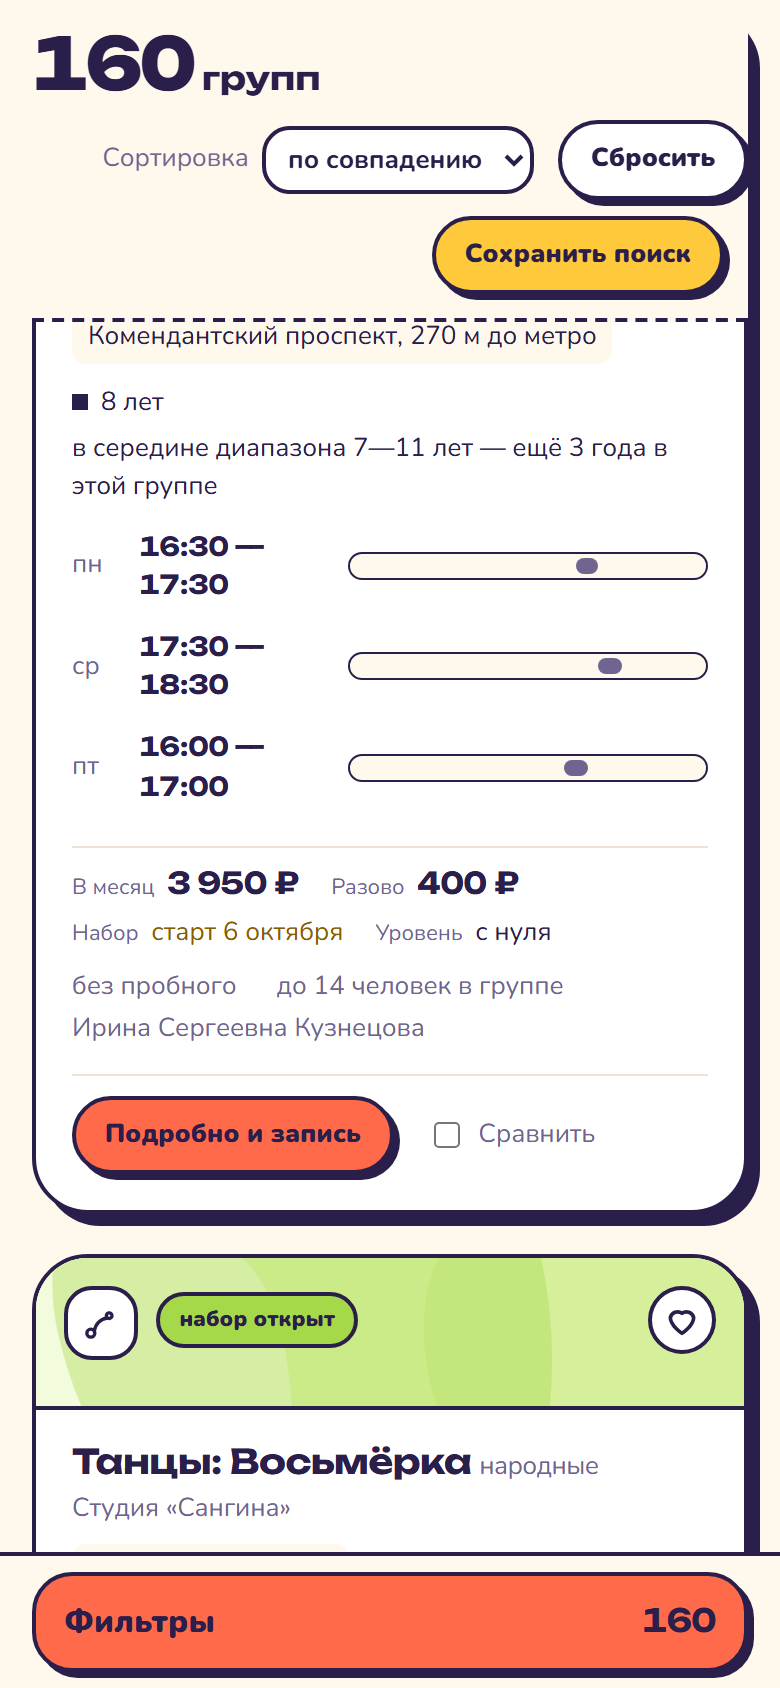
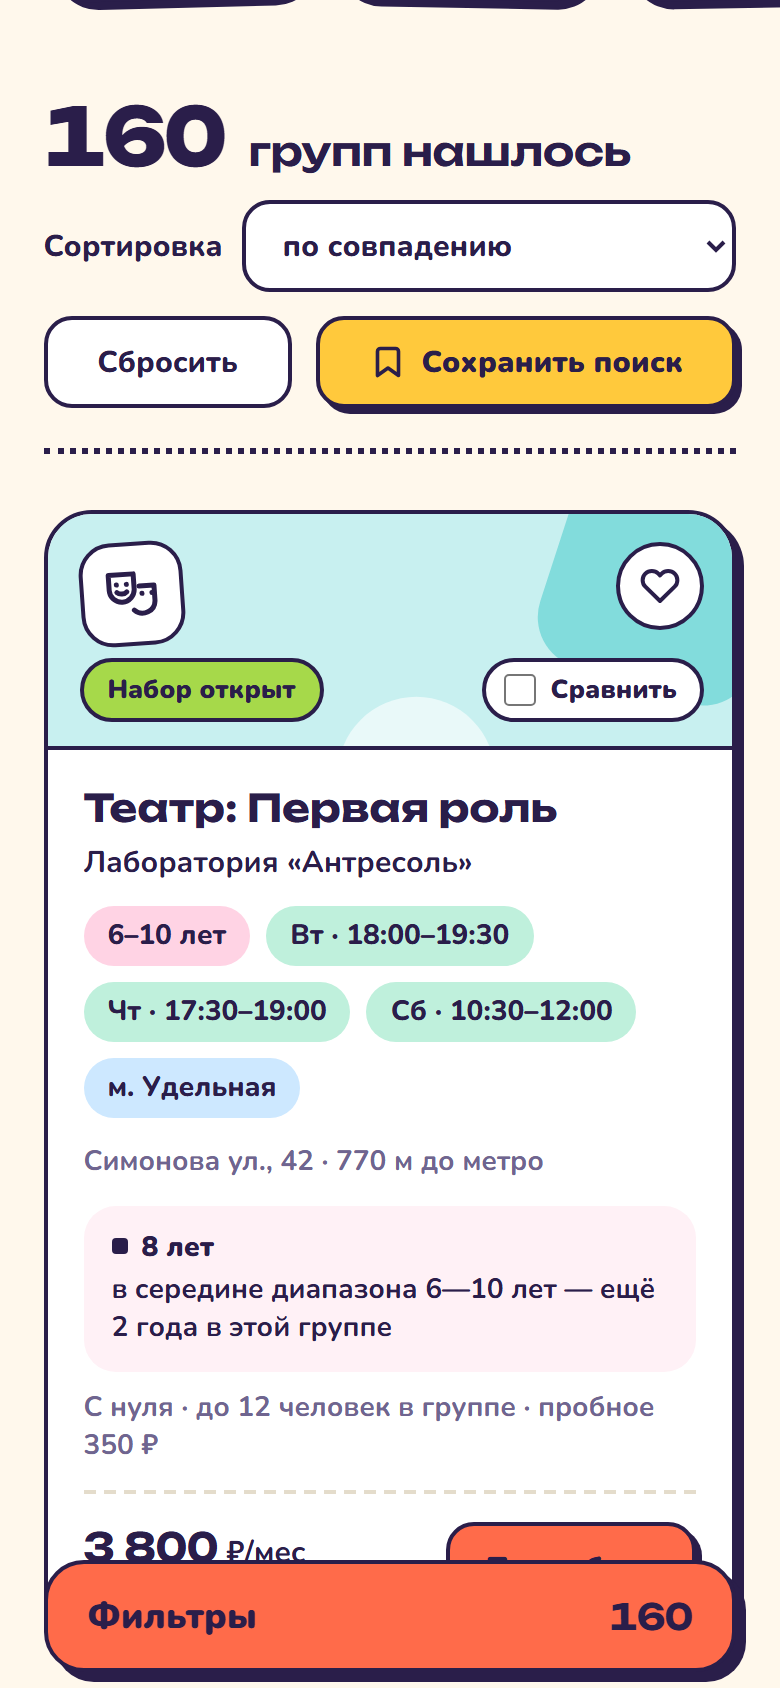
README: скриншоты нового вида, сценарии интерфейса, поправки описания; снимки прокрученной страницы в обвязке

diff --git a/README.md b/README.md
@@ -13,11 +13,11 @@
 
 Живой адрес: <https://peresmenka.vercel.app>
 
-![Первый экран: девять направлений плитками с числом групп](docs/screenshots/tiles-1440.png)
+![Первый экран: заголовок «Кружок между работой и школой», кнопка «Подобрать кружок» и девять направлений плитками с числом групп](docs/screenshots/tiles-1440.png)
 
-| Поиск: недельная сетка и окно под каждым занятием | Когда ничего не нашлось |
+| Три шага подбора и окно под каждым занятием | Когда ничего не нашлось |
 | --- | --- |
-| ![Первый экран: три фильтра и список групп](docs/screenshots/search-1440.png) | ![Пустой результат с посчитанными подсказками](docs/screenshots/empty-1440.png) |
+| ![Шаги «Кому», «Когда удобно возить», «Где»: ребёнок 8 лет, окно «После школы», под ними карточки с полосой занятий на шкале дня](docs/screenshots/search-1440.png) | ![Пустой результат с посчитанными подсказками](docs/screenshots/empty-1440.png) |
 
 | Двое детей в одно время | Статическая страница под запрос |
 | --- | --- |
@@ -41,7 +41,7 @@
 
 | Фильтры в шторке | Кабинет на телефоне |
 | --- | --- |
-| ![Шторка фильтров с кнопкой «Показать 9 групп»](docs/screenshots/sheet-390.png) | ![Кабинет на телефоне](docs/screenshots/lk-390.png) |
+| ![Шторка подбора на телефоне с кнопкой «Показать 160 групп»](docs/screenshots/sheet-390.png) | ![Кабинет на телефоне](docs/screenshots/lk-390.png) |
 
 | Статическая страница под запрос на телефоне |
 | --- |
@@ -87,6 +87,23 @@ npm test
 каталога, качество собранных страниц, проверка подписи Telegram, тихие часы
 и владение объектами кабинета. Сеть не нужна ни одному. Тесты по страницам
 пропускаются, если сборки ещё не было.
+
+```bash
+npm run test:ui
+```
+
+20 сценариев интерфейса в настоящем браузере: второй ребёнок, окно протяжкой
+и пресетом, метро, пустой результат, сохранение поиска, сравнение, ссылка
+с фильтрами, шторка и поворот телефона, «назад» после «Показать ещё»,
+заголовок без разорванных слов и страница не шире экрана на 320–430 px.
+Сценарии ищут элементы так, как человек, — по видимому тексту, подписи
+и адресной строке, — поэтому не зависят от разметки. Без Playwright и вообще
+без зависимостей: обвязка `test/ui/harness.mjs` поднимает установленный Edge
+и говорит с ним по Chrome DevTools Protocol. Ключи Upstash и Telegram в них
+пустые — боевая база и настоящий бот не задеваются.
+
+`node tools/shoot-readme.mjs` переснимает скриншоты этого README,
+`node tools/shoot-compare.mjs` — сверку с макетом в `design/compare.html`.
 
 ## Три фильтра
 
@@ -185,21 +202,21 @@ npm test
 «старт через N дней»: дни берутся из того же `intake()`, что и строка «Набор»
 в карточке, второго источника правды о наборе в проекте нет.
 
-**Обложки** карточек строятся из id группы: у 310 групп 310 разных обложек,
-и при пересборке каталога они не перетасовываются. Рисунок — несколько мягких
-пятен, наползающих друг на друга и обрезанных краем. Пятно строится по кольцу
-точек со смещёнными радиусами и замыкается квадратичными кривыми через
-середины рёбер. Число пятен выведено из пропорции, поэтому одна и та же
-обложка читается и полосой 240×150 в карточке, и лентой 960×120 на странице
-группы. Фотографий детей нет нигде.
+**Обложки** строятся из id группы, поэтому при пересборке каталога ничего не
+перетасовывается. В карточке выдачи это одна из трёх композиций эталона —
+круг в углу, повёрнутый квадрат, волна по низу; какая из трёх, куда сдвинуты
+фигуры и на сколько наклонён значок, выводится из id, и соседние карточки не
+повторяются. На странице группы обложка — лента 960×120 из нескольких мягких
+пятен: пятно строится по кольцу точек со смещёнными радиусами и замыкается
+квадратичными кривыми через середины рёбер. Фотографий детей нет нигде.
 
 **Подвал** отделён от страницы волной — одним инлайновым SVG в фоне, без
 картинки и без лишней разметки. В подвале девять ссылок на направления:
 единственная перелинковка, которая есть на каждой странице, и собирается
 она из каталога, чтобы после смены слага не уводить в 404.
 
-Шрифтов два и они предельно разные: **Unbounded** 700–800 в заголовках
-и числах, **Nunito** 400–900 в тексте, чипах и кнопках. Всё остальное —
+Шрифтов два и они предельно разные: **Unbounded** 600–800 в заголовках
+и числах, **Nunito** 500–900 в тексте, чипах и кнопках. Всё остальное —
 инлайновый SVG в `js/visual.js`: ни одного файла картинки, ни одной
 зависимости.
 
@@ -210,11 +227,12 @@ npm test
 и оплата, которых на сайте нет: значок, который нечем наполнить, рисовать
 нельзя. На его месте — честный статус набора.
 
-**Трёх колонок в результатах — их две.** В эталоне карточка это заглушка:
-`[Название группы]`, `[ЦЕНА]`, три чипа. В настоящей карточке живёт полоса
-занятия на шкале дня — главная графика проекта, — и в колонке 300 px она
-нечитаема. В двух колонках на полосу остаётся 330 px, и видно, на сколько
-минут занятие вылезает за окно.
+**Всего, что в карточке эталона — заглушка.** Там `[Название группы]`,
+`[ЦЕНА]` и три чипа. В настоящей карточке — возраст каждого ребёнка («ещё
+3 года в этой группе»), адрес с расстоянием до метро, уровень, размер группы,
+пробное и «Сравнить» пилюлей на обложке. Когда окно задано, пилюли расписания
+уступают место полосе занятия на шкале дня — главной графике проекта. Три
+колонки, как в эталоне, — от 1200 px; уже — две, на телефоне одна.
 
 **Колокольчика и профиля в шапке у гостя.** В эталоне нарисован вошедший
 пользователь. Гостю показывать чужое имя и счётчик уведомлений нечестно,
@@ -421,7 +439,7 @@ npx vercel --prod
 
 Статические страницы-списки при этом не получили ни одного исполняемого
 скрипта: там по-прежнему только JSON-LD и обычная ссылка `<a href="/lk/">`.
-Это стерегут два теста, которые проходят по всем 369 страницам и падают
+Это стерегут два теста, которые проходят по всем 469 страницам-спискам и падают
 от любого `<script src>` и любого инлайнового `on*`.
 
 ### Вход
